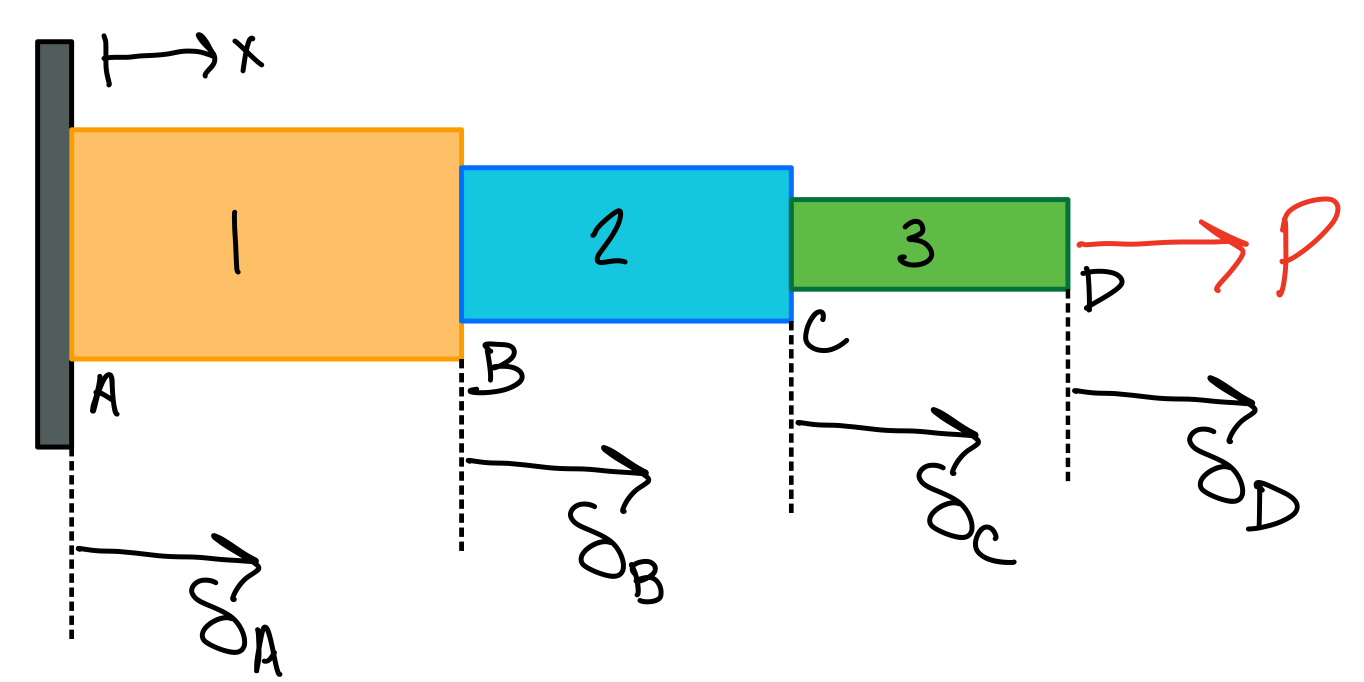
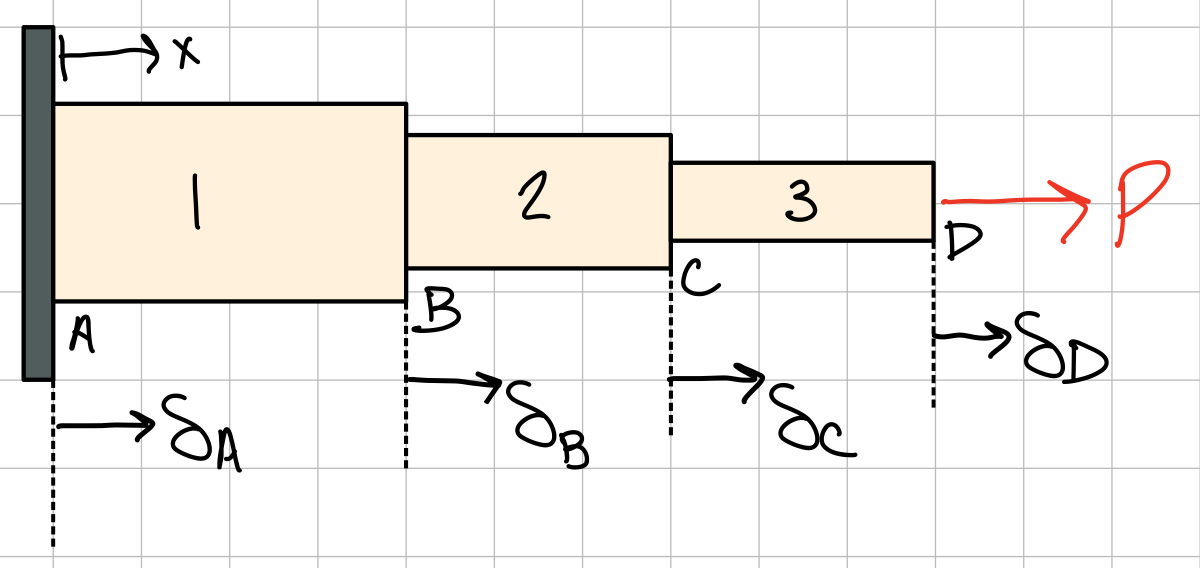
Branding

diff --git a/public/dyn/rigid_body_kinematics/canvases.js b/public/dyn/rigid_body_kinematics/canvases.js
@@ -11,15 +11,15 @@ $(document).ready(function(){
 
         this.setProp("shapeOutlineColor", "rgb(230, 230, 230)");
         
-        /// VERTICAL LINES
-        for (let i = 0; i < width*frequency; i++){
-            this.line($V([i/frequency, -height]), $V([i/frequency, height]));
-        }
+        // /// VERTICAL LINES
+        // for (let i = 0; i < width*frequency; i++){
+        //     this.line($V([i/frequency, -height]), $V([i/frequency, height]));
+        // }
         
-        /// HORIZONTAL LINES
-        for (let i = 0; i < height*frequency; i++){
-            this.line($V([-width, i/frequency]), $V([width, i/frequency]));
-        }
+        // /// HORIZONTAL LINES
+        // for (let i = 0; i < height*frequency; i++){
+        //     this.line($V([-width, i/frequency]), $V([width, i/frequency]));
+        // }
         
         this.setProp("shapeOutlineColor", "rgb(0, 0, 0)");
 
@@ -84,7 +84,7 @@ $(document).ready(function(){
             this.labelCircleLine(O, rw, a1, a2, $V([0, 1]), label, true);
             this.restore();
         }.bind(this);
-        this.setProp("shapeInsideColor", "#FDC066");
+        this.setProp("shapeInsideColor", "#FFF1DB");
 
         this.save();
         this.translate(rP1);
